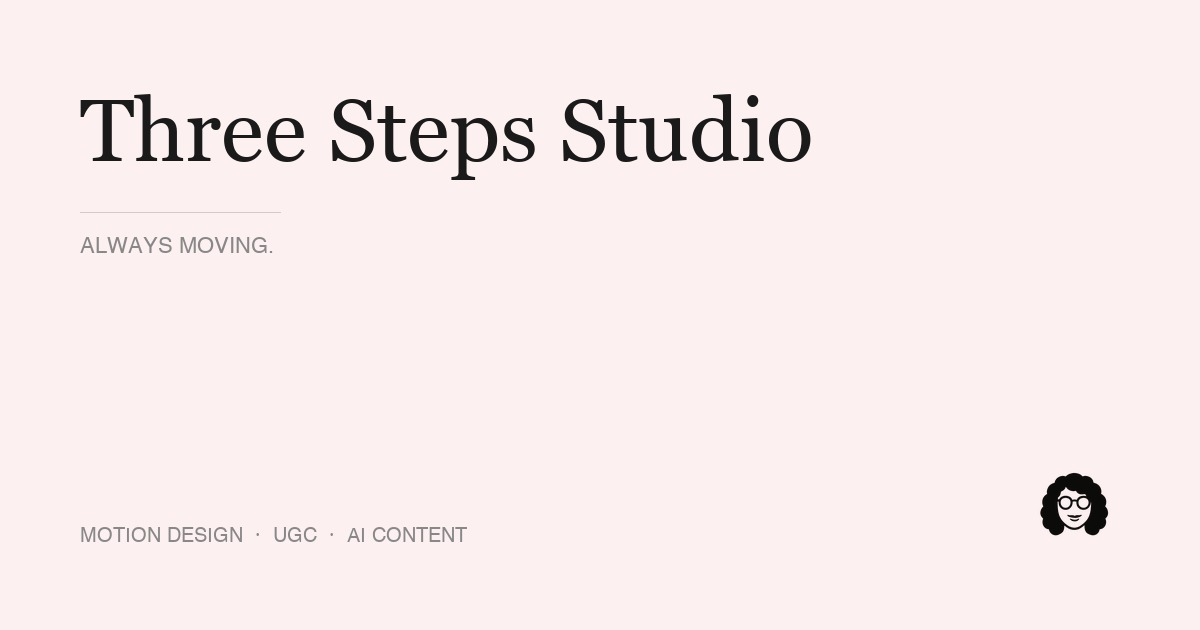
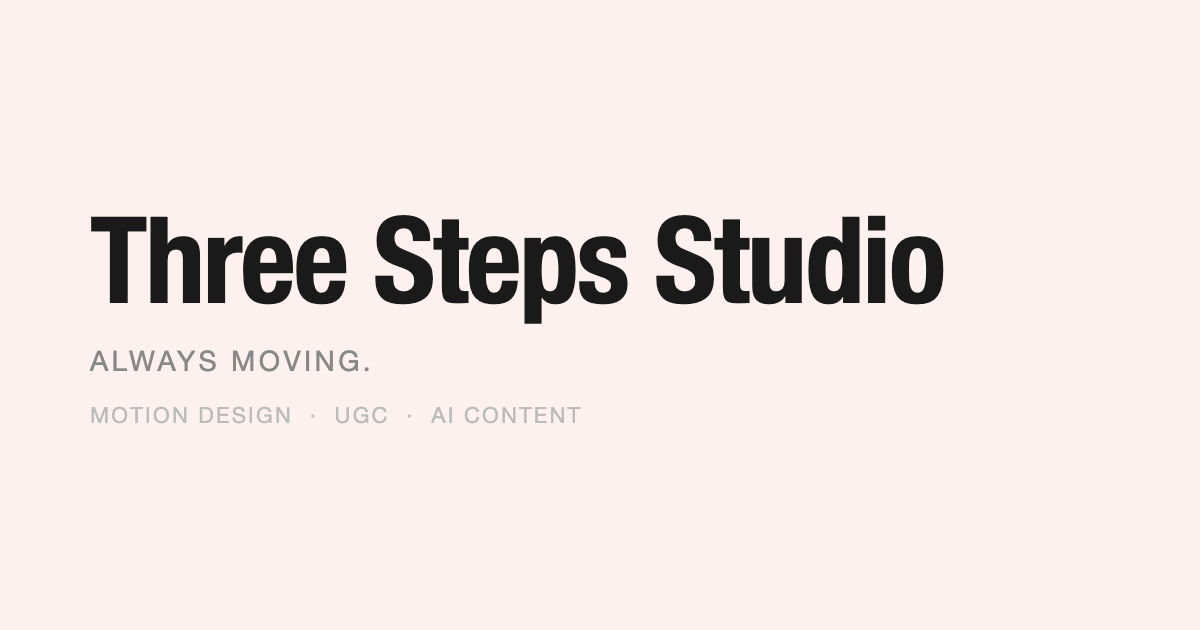
Update OG preview image: Helvetica Neue condensed bold, no underline

diff --git a/og-image-source.html b/og-image-source.html
@@ -1,0 +1,58 @@
+<!DOCTYPE html>
+<html>
+<head>
+  <meta charset="UTF-8">
+  <style>
+    * { margin: 0; padding: 0; box-sizing: border-box; }
+    html, body {
+      width: 1200px;
+      height: 630px;
+      overflow: hidden;
+      background: #FDF0F0;
+      font-family: 'HelveticaNeue-CondensedBold', 'Helvetica Neue Condensed Bold', 'Arial Narrow', sans-serif;
+    }
+    .wrap {
+      width: 1200px;
+      height: 630px;
+      display: flex;
+      flex-direction: column;
+      justify-content: center;
+      padding: 80px 90px;
+      gap: 20px;
+    }
+    .title {
+      font-family: 'HelveticaNeue-CondensedBold', 'Helvetica Neue Condensed Bold', 'Arial Narrow', sans-serif;
+      font-weight: 700;
+      font-stretch: condensed;
+      font-size: 120px;
+      line-height: 0.95;
+      color: #1a1a1a;
+      letter-spacing: -0.02em;
+      white-space: nowrap;
+    }
+    .tagline {
+      font-family: 'Plus Jakarta Sans', 'Helvetica Neue', Arial, sans-serif;
+      font-size: 28px;
+      letter-spacing: 0.12em;
+      text-transform: uppercase;
+      color: #888;
+      margin-top: 8px;
+    }
+    .services {
+      font-family: 'Plus Jakarta Sans', 'Helvetica Neue', Arial, sans-serif;
+      font-size: 22px;
+      letter-spacing: 0.1em;
+      text-transform: uppercase;
+      color: #bbb;
+      margin-top: 4px;
+    }
+  </style>
+</head>
+<body>
+  <div class="wrap">
+    <div class="title">Three Steps Studio</div>
+    <div class="tagline">Always Moving.</div>
+    <div class="services">Motion Design &nbsp;·&nbsp; UGC &nbsp;·&nbsp; AI Content</div>
+  </div>
+</body>
+</html>
